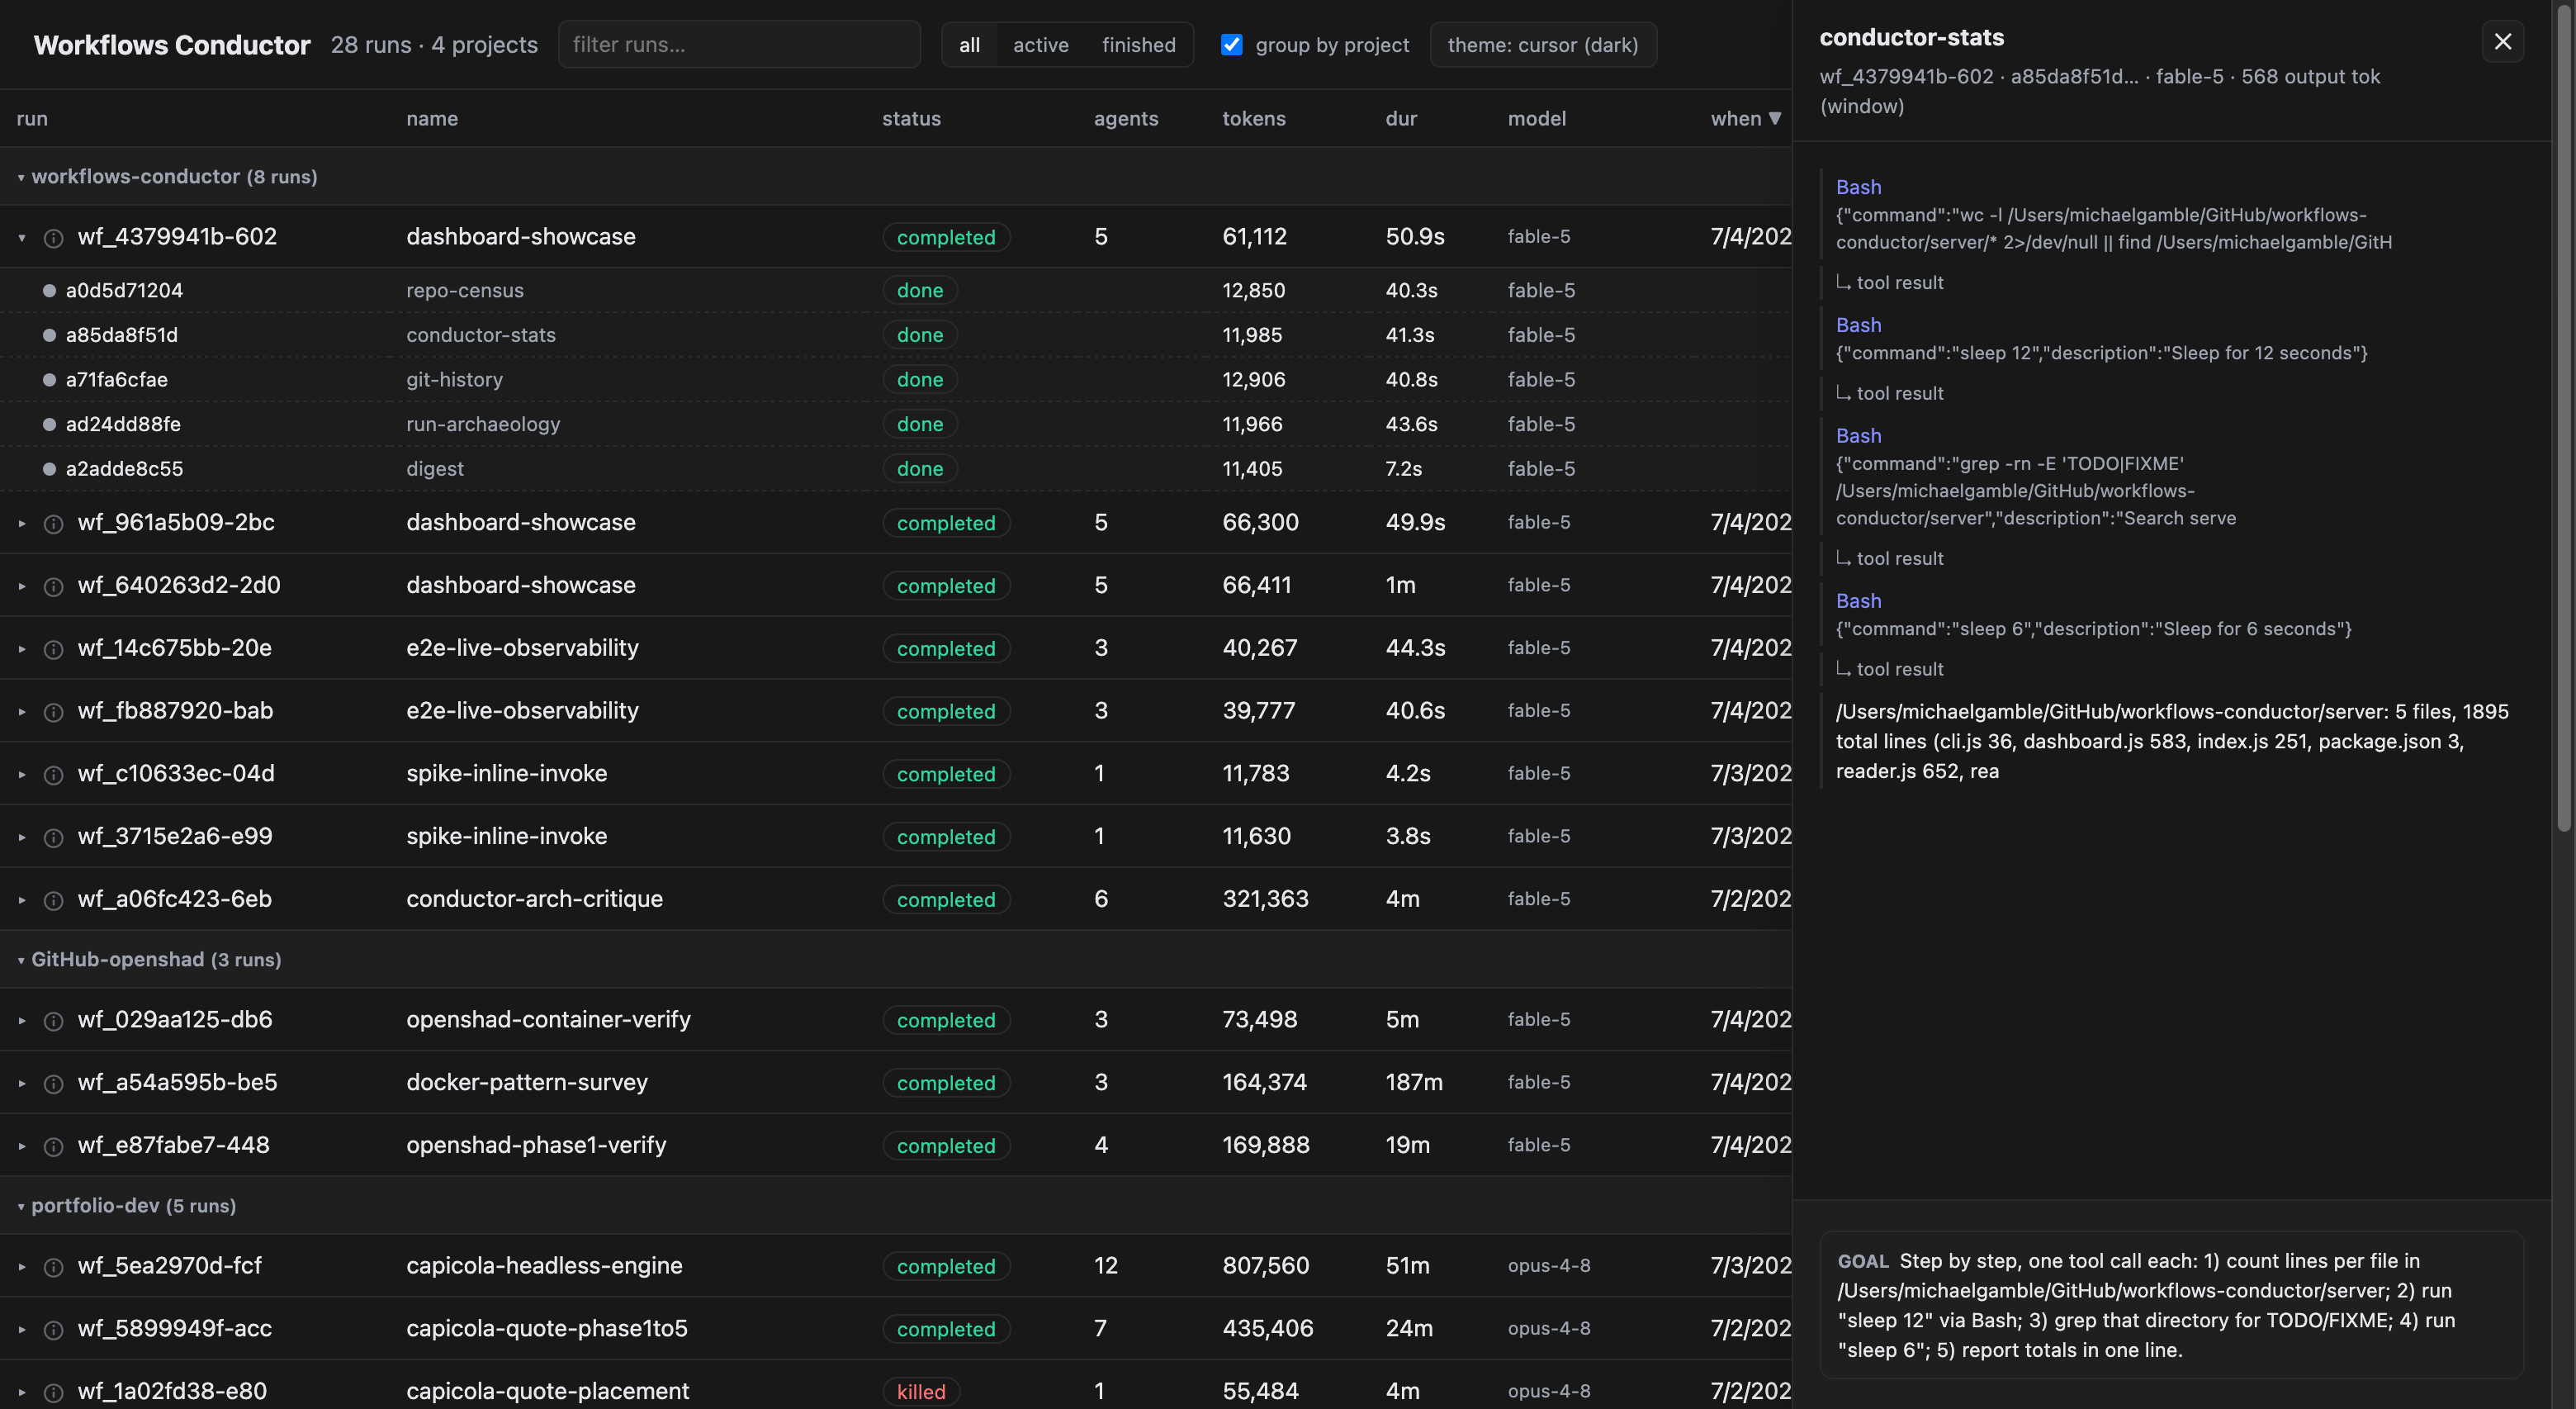
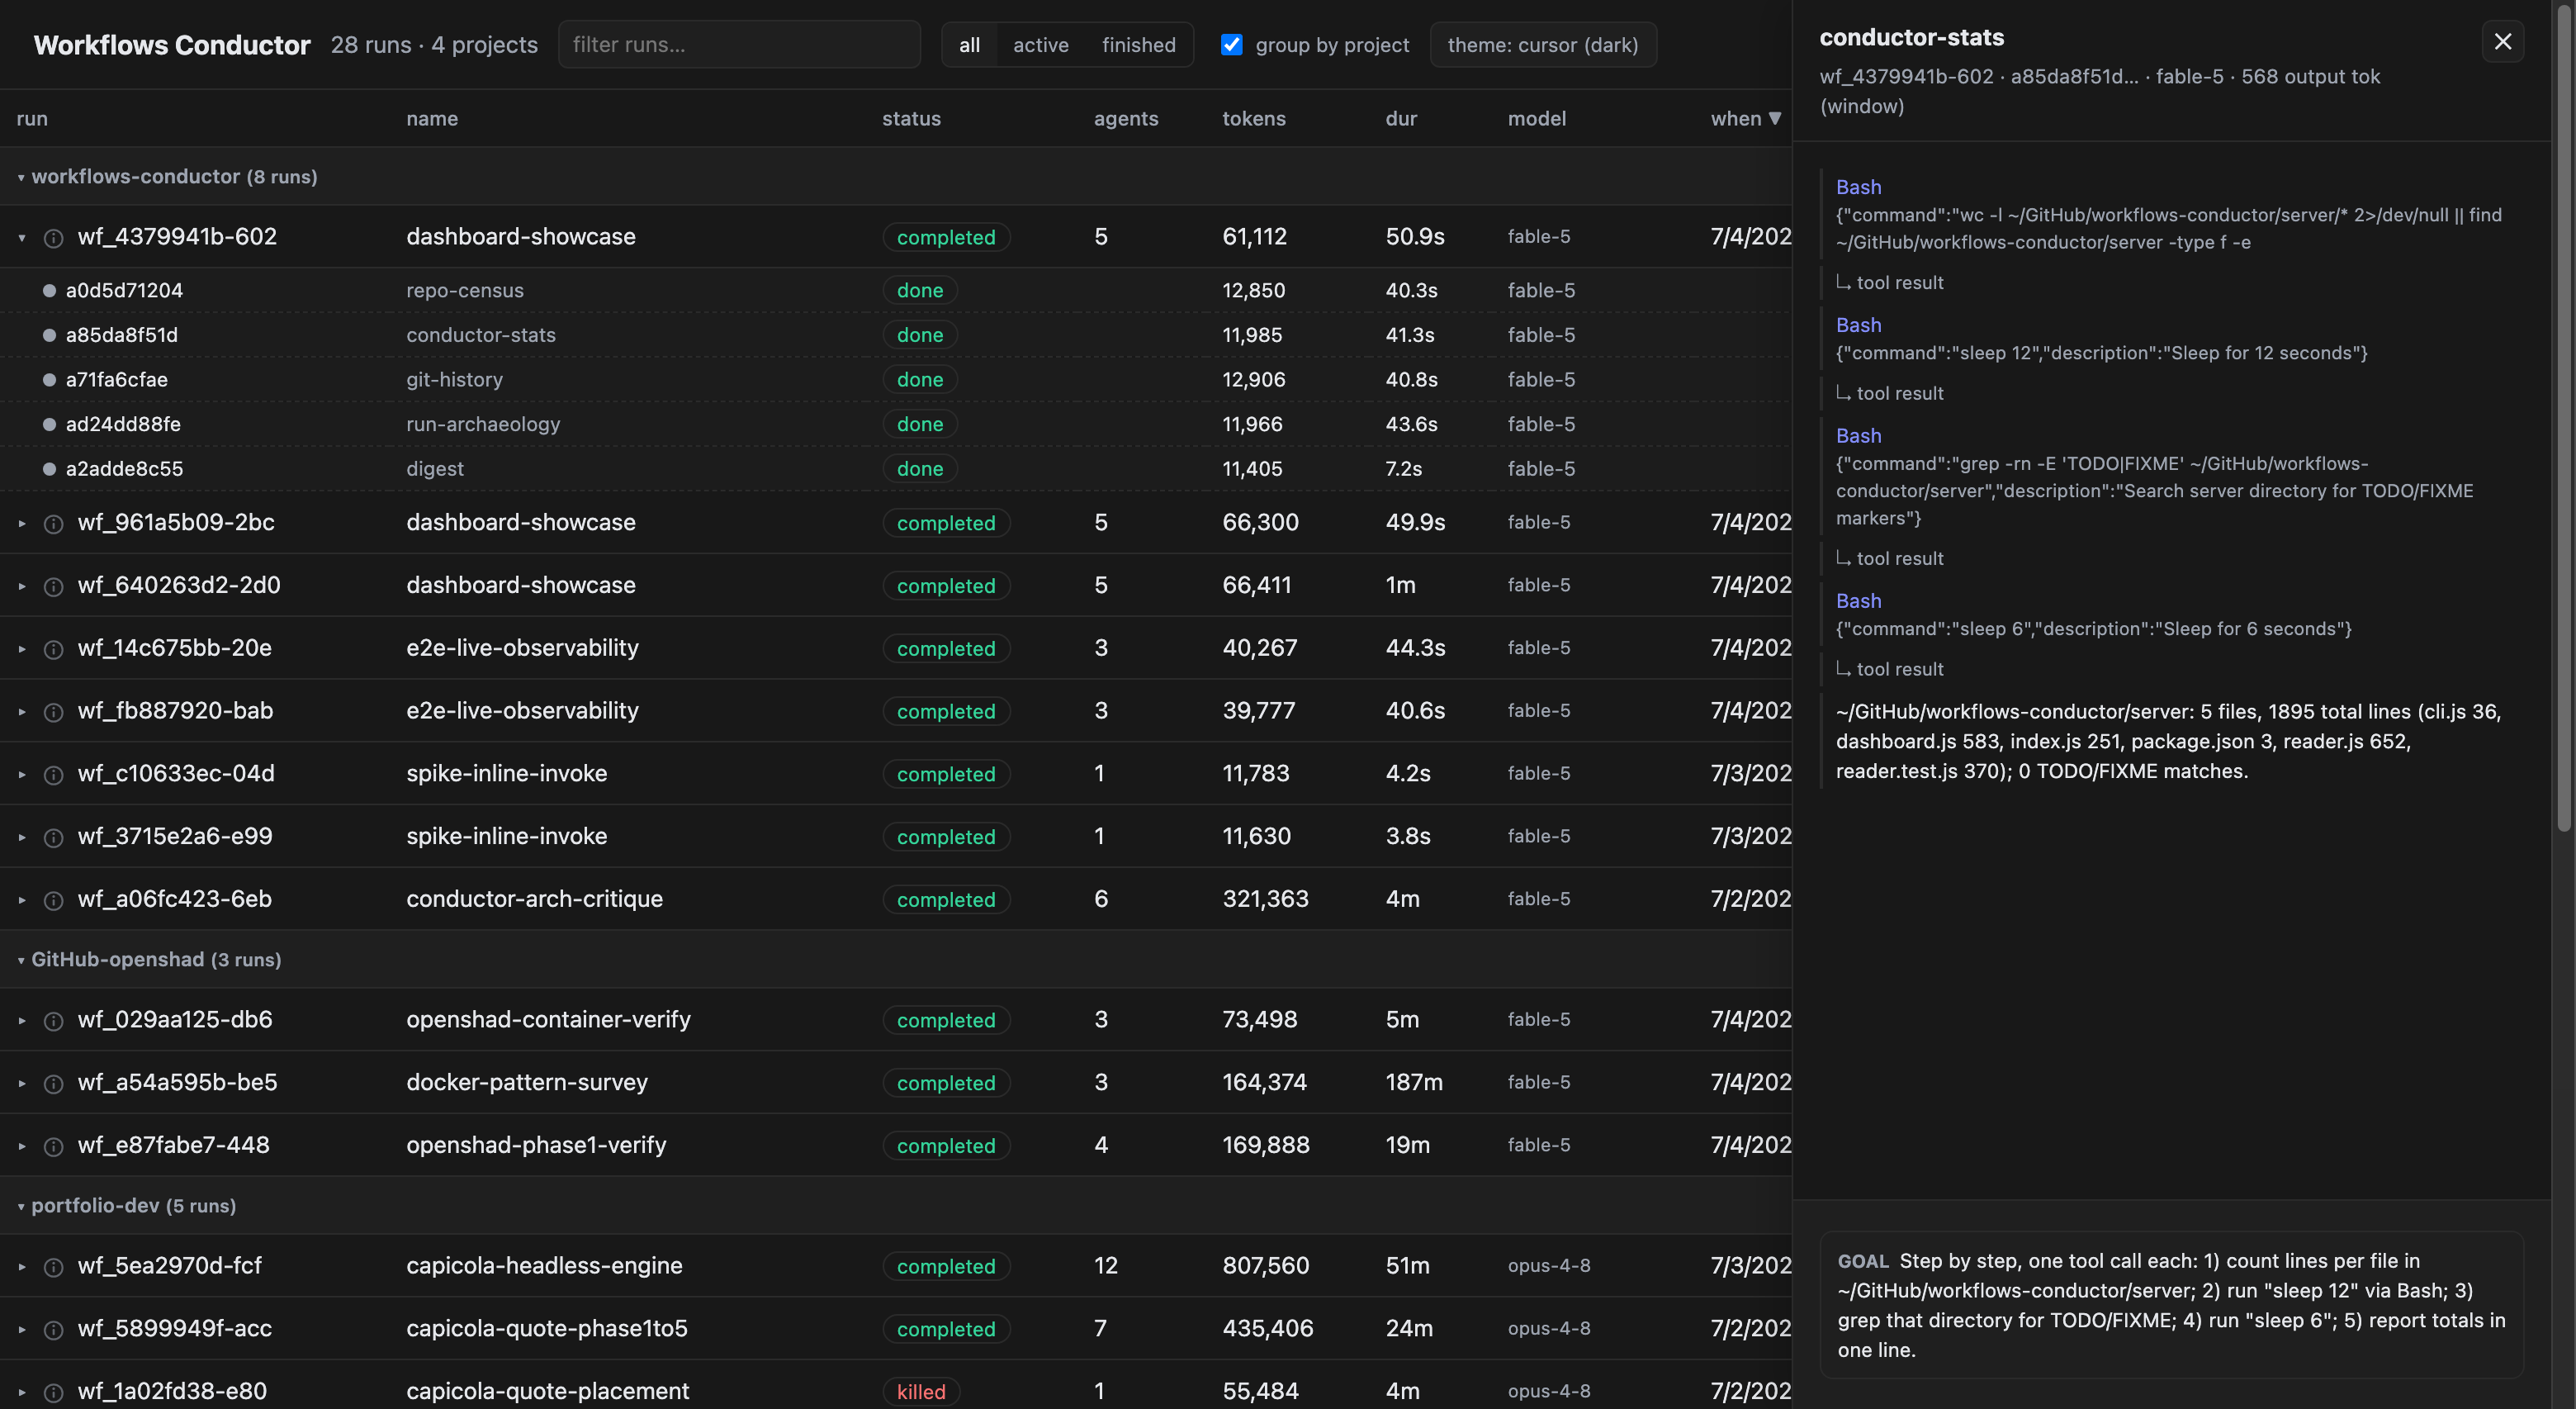
1.0.2: redact home directory in all displayed strings; clean screenshot
The reader now rewrites $HOME to ~ in goals, tool summaries, and text
snippets — the OS username never renders in the dashboard (privacy +
readability). README screenshot re-captured with the redaction live.

diff --git a/server/reader.js b/server/reader.js
@@ -22,6 +22,11 @@ export function encodeCwd(cwd) {
   return cwd.replace(/[^a-zA-Z0-9]/g, '-')
 }
 
+// Display hygiene: never show the user's home path (and thus their OS
+// username) in goals, tool summaries, or snippets — ~ reads better anyway.
+const HOME = os.homedir()
+function tidy(s) { return typeof s === 'string' ? s.split(HOME).join('~') : s }
+
 async function safeReaddir(dir) {
   try { return await fs.readdir(dir, { withFileTypes: true }) } catch { return [] }
 }
@@ -409,9 +414,9 @@ export async function parseTranscriptTail(filePath, { maxBytes = 65536, maxEvent
         if (block.type === 'tool_use') {
           let summary
           try { summary = JSON.stringify(block.input ?? null) ?? 'null' } catch { summary = String(block.input) }
-          events.push({ kind: 'tool', at, tool: block.name ?? null, summary: summary.slice(0, 120) })
+          events.push({ kind: 'tool', at, tool: block.name ?? null, summary: tidy(summary.slice(0, 160)) })
         } else if (block.type === 'text' && typeof block.text === 'string' && block.text.trim()) {
-          events.push({ kind: 'text', at, snippet: block.text.slice(0, 160) })
+          events.push({ kind: 'text', at, snippet: tidy(block.text.slice(0, 200)) })
         }
       }
     } else if (line.type === 'user' && Array.isArray(line.message?.content) &&
@@ -591,7 +596,7 @@ export async function readTranscriptPrompt(filePath, { maxBytes = 32768, maxChar
     let text = null
     if (typeof c === 'string') text = c
     else if (Array.isArray(c)) text = c.find(b => b?.type === 'text' && typeof b.text === 'string')?.text ?? null
-    return text ? text.trim().slice(0, maxChars) : null
+    return text ? tidy(text.trim().slice(0, maxChars)) : null
   } catch { return null } finally { if (fh) await fh.close().catch(() => {}) }
 }
 